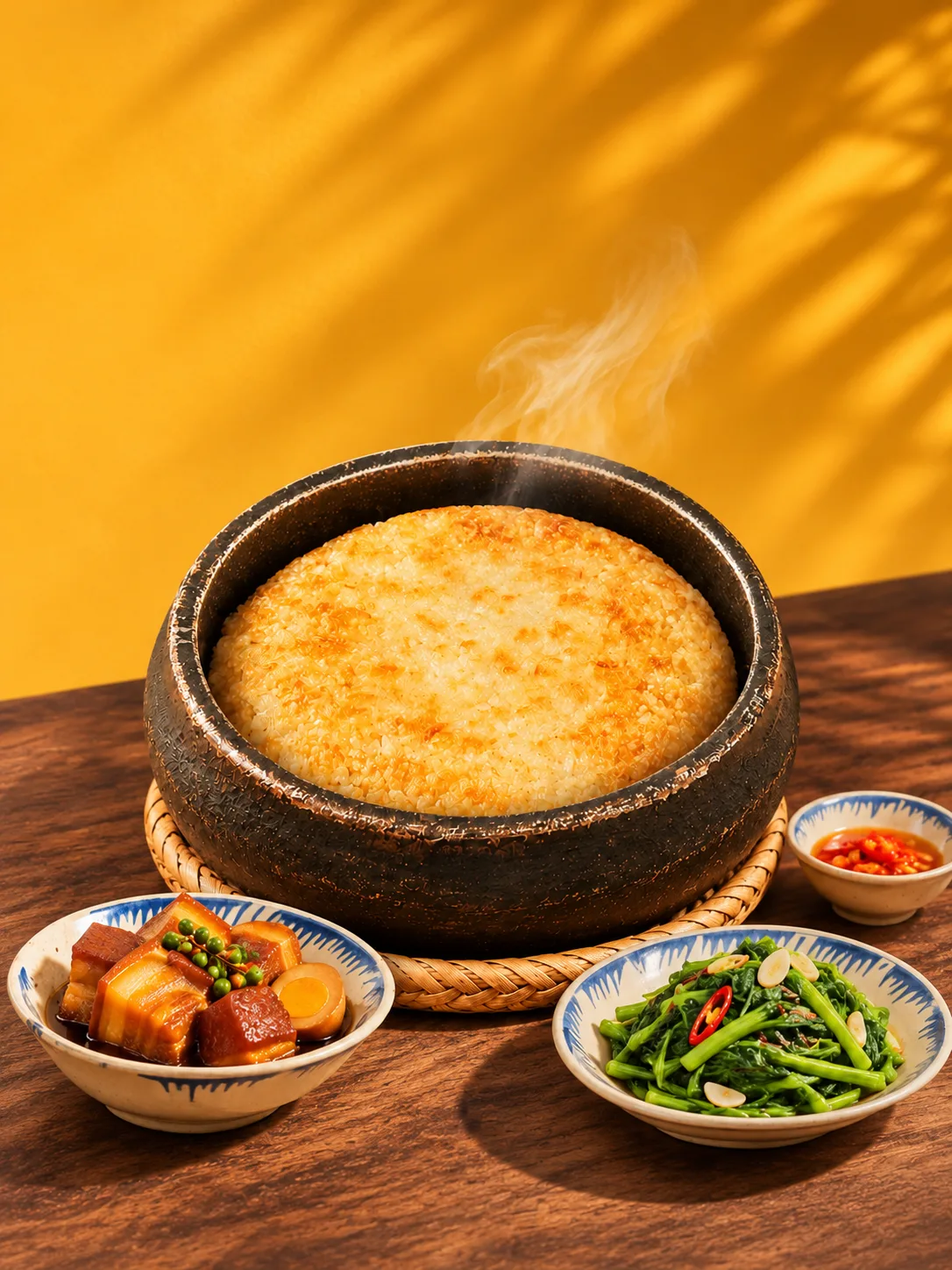
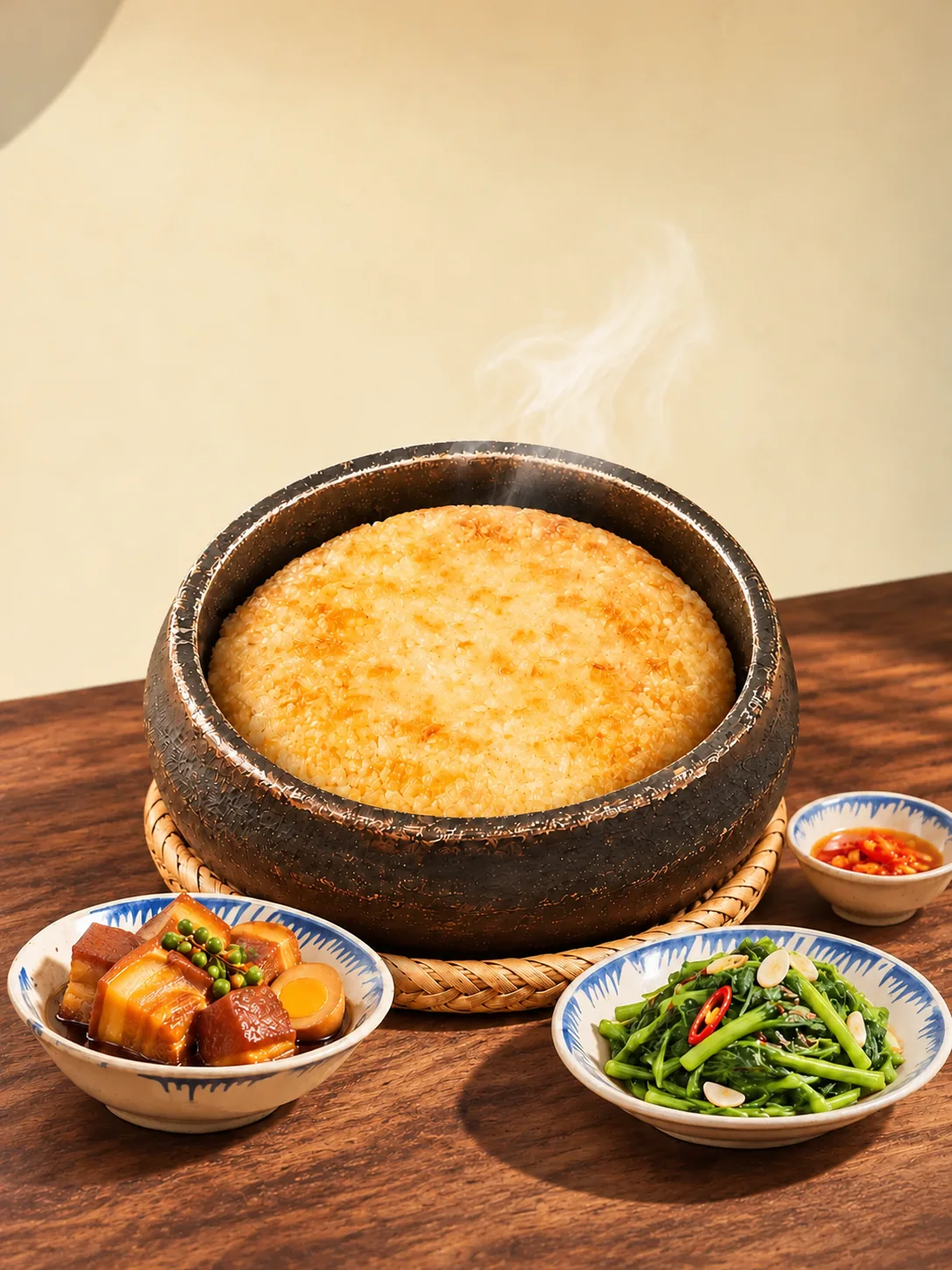
a few UI changes

diff --git a/van-hanh.html b/van-hanh.html
@@ -8,8 +8,8 @@
   <link rel="preconnect" href="https://fonts.googleapis.com">
   <link rel="preconnect" href="https://fonts.gstatic.com" crossorigin>
   <link href="https://fonts.googleapis.com/css2?family=Inter:wght@300;400;500;600;700;800;900&display=swap" rel="stylesheet">
-  <link rel="stylesheet" href="css/style.css?v=20261103v">
-  <link rel="stylesheet" href="css/franchise.css?v=20261103v">
+  <link rel="stylesheet" href="css/style.css?v=20261104n">
+  <link rel="stylesheet" href="css/franchise.css?v=20261104n">
 </head>
 <body class="fr-body">
 
@@ -42,33 +42,30 @@
       <div class="fr-wrap">
         <ol class="fr-ops">
           <li class="fr-op">
-            <div class="fr-op__img"><img src="images/cooking%20process/1793692690788_2690155425635483805_2690155425635483805_e219f417d69f35a2a7e09b6226b7ed0c.jpg" alt="Chuẩn bị nguyên liệu" loading="lazy"></div>
-            <b>01</b><h3>Chuẩn bị nguyên liệu</h3><p>Nhận, kiểm tra và bảo quản nguyên liệu theo chuẩn.</p>
+            <div class="fr-op__img"><img src="images/cooking%20process/1793692690788_2690155425635483805_2690155425635483805_e219f417d69f35a2a7e09b6226b7ed0c.jpg" alt="Quản lý nguyên liệu" loading="lazy"></div>
+            <b>01</b><h3>Quản lý nguyên liệu</h3><p>Quy trình nhập hàng, kiểm tra chất lượng, bảo quản, kiểm kê và định mức tồn kho.</p>
           </li>
           <li class="fr-op">
-            <div class="fr-op__img"><img src="images/cooking%20process/1793692690792_2690155425635483805_2690155425635483805_7589d6a22bfa5168e49d67c269f5c377.jpg" alt="Sơ chế và định lượng" loading="lazy"></div>
-            <b>02</b><h3>Sơ chế và định lượng</h3><p>Sơ chế, cân đo đúng định lượng từng phần.</p>
+            <div class="fr-op__img"><img src="images/cooking%20process/1793692690800_2690155425635483805_2690155425635483805_9ab664842a433c47abd96ab40248396a.jpg" alt="Vận hành bếp" loading="lazy"></div>
+            <b>02</b><h3>Vận hành bếp</h3><p>Quy trình chuẩn bị, phân công công việc, chế biến và kiểm soát chất lượng món ăn.</p>
           </li>
           <li class="fr-op">
-            <div class="fr-op__img"><img src="images/cooking%20process/1793692690796_2690155425635483805_2690155425635483805_e85313a9d261408a9040d6772abc1e79.jpg" alt="Chuẩn bị thố và cơm" loading="lazy"></div>
-            <b>03</b><h3>Chuẩn bị thố và cơm</h3><p>Nấu cơm, chuẩn bị thố đạt chuẩn trước khi đốt.</p>
+            <div class="fr-op__img"><img src="images/brand%20story/phucvukhachhang.webp" alt="Phục vụ khách hàng" loading="lazy"></div>
+            <b>03</b><h3>Phục vụ khách hàng</h3><p>Quy trình đón khách, nhận order, phục vụ món, thanh toán và xử lý khiếu nại.</p>
           </li>
           <li class="fr-op">
-            <div class="fr-op__img"><img src="images/cooking%20process/1793692690800_2690155425635483805_2690155425635483805_9ab664842a433c47abd96ab40248396a.jpg" alt="Đốt thố và hoàn thiện" loading="lazy"></div>
-            <b>04</b><h3>Đốt thố và hoàn thiện</h3><p>Đốt trên than hồng, hoàn thiện và trình bày món.</p>
+            <div class="fr-op__img"><img src="images/brand%20story/quanlynhansu.webp" alt="Quản lý nhân sự" loading="lazy"></div>
+            <b>04</b><h3>Quản lý nhân sự</h3><p>Cơ cấu nhân sự, phân công vị trí, lịch làm việc, đào tạo và đánh giá nhân viên.</p>
           </li>
           <li class="fr-op">
-            <div class="fr-op__img"><img src="images/cooking%20process/1793692690804_2690155425635483805_2690155425635483805_16d408f570e95a58721dc51e878c2690.jpg" alt="Kiểm tra chất lượng" loading="lazy"></div>
-            <b>05</b><h3>Kiểm tra chất lượng</h3><p>Đối chiếu tiêu chuẩn thành phẩm trước khi ra món.</p>
+            <div class="fr-op__img"><img src="images/brand%20story/quanlytaichinh.webp" alt="Quản lý tài chính" loading="lazy"></div>
+            <b>05</b><h3>Quản lý tài chính</h3><p>Theo dõi doanh thu, chi phí nguyên liệu, chi phí nhân sự và kiểm soát thất thoát.</p>
           </li>
           <li class="fr-op">
-            <div class="fr-op__img"><img src="images/cooking%20process/1793692690810_2690155425635483805_2690155425635483805_f4c63364cfbd63833b3e2ef6c01cf506.jpg" alt="Phục vụ khách hàng" loading="lazy"></div>
-            <b>06</b><h3>Phục vụ khách hàng</h3><p>Quy trình phục vụ thống nhất tại bàn.</p>
+            <div class="fr-op__img"><img src="images/brand%20story/hoi_an_anh_1_1600x1200.webp" alt="Kiểm soát chất lượng" loading="lazy"></div>
+            <b>06</b><h3>Kiểm soát chất lượng</h3><p>Checklist kiểm tra hằng ngày, tiêu chuẩn vệ sinh, chất lượng món ăn và đánh giá hoạt động.</p>
           </li>
         </ol>
-        <ul class="fr-chips">
-          <li>Quản lý nguyên liệu</li><li>Tiêu chuẩn vệ sinh</li><li>Tiêu chuẩn thành phẩm</li><li>Quy trình phục vụ</li><li>Quản lý hoạt động nhà hàng</li>
-        </ul>
         <div class="fr-center">
           <a href="dang-ky.html?model=Quy%20tr%C3%ACnh%20v%E1%BA%ADn%20h%C3%A0nh" class="fr-btn fr-btn--dark">Tìm Hiểu Chuyển Giao Quy Trình</a>
           <a href="dang-ky.html?model=%C4%90%C3%A0o%20t%E1%BA%A1o%20tr%E1%BB%B1c%20ti%E1%BA%BFp" class="fr-btn fr-btn--gold">Tìm Hiểu Đào Tạo Trực Tiếp</a>
@@ -85,9 +82,8 @@
       </div>
       <div>
         <h4>Liên hệ</h4>
-        <p>Số 8 Ngõ 158 Nguyễn Sơn, Bồ Đề, Long Biên, Hà Nội</p>
-        <p>Hotline: <a href="tel:0866888118">0866 888 118</a></p>
-        <p><a href="https://facebook.com/comdotthhoian" target="_blank" rel="noopener">Facebook</a></p>
+        <p>Hotline nhượng quyền: <a href="tel:0975388886">097 538 88 86</a></p>
+        <p><a href="https://www.facebook.com/comdotthohoian" target="_blank" rel="noopener">Fanpage nhượng quyền</a></p>
       </div>
     </div>
     <div class="fr-footer__bottom">© 2026 Cơm Đốt Thố Hội An. Bảo lưu mọi quyền.</div>
@@ -95,6 +91,6 @@
 
   <div class="fr-lightbox" id="frLightbox" hidden><button aria-label="Đóng" id="frLightboxClose">×</button><img alt=""></div>
 
-  <script src="js/franchise.js?v=20261103v"></script>
+  <script src="js/franchise.js?v=20261104n"></script>
 </body>
 </html>

diff --git a/index.html b/index.html
@@ -5,13 +5,13 @@
   <meta name="viewport" content="width=device-width, initial-scale=1.0">
   <title>Cơm Đốt Thố Hội An — Hợp Tác & Nhượng Quyền</title>
   <meta name="description" content="Cơm Đốt Thố Hội An: các hình thức hợp tác, nhượng quyền. Đăng ký tư vấn hợp tác.">
-  <link rel="preload" as="image" href="images/hero/Rustic%20Stone%20Pot%20Rice%20Feast.png" media="(min-width: 641px)">
-  <link rel="preload" as="image" href="images/hero/hero-mobile.webp" media="(max-width: 640px)">
+  <link rel="preload" as="image" href="images/hero/latest%20hero.png" media="(min-width: 641px)">
+  <link rel="preload" as="image" href="images/hero/hero-mobile.webp?v=2" media="(max-width: 640px)">
   <link rel="preconnect" href="https://fonts.googleapis.com">
   <link rel="preconnect" href="https://fonts.gstatic.com" crossorigin>
   <link href="https://fonts.googleapis.com/css2?family=Inter:wght@300;400;500;600;700;800;900&display=swap" rel="stylesheet">
-  <link rel="stylesheet" href="css/style.css?v=20261103v">
-  <link rel="stylesheet" href="css/franchise.css?v=20261103v">
+  <link rel="stylesheet" href="css/style.css?v=20261104n">
+  <link rel="stylesheet" href="css/franchise.css?v=20261104n">
 </head>
 <body class="fr-body fr-home">
 
@@ -37,8 +37,8 @@
   <main class="">
     <section class="fr-hero" id="tong-quan">
       <picture>
-        <source media="(max-width: 640px)" srcset="images/hero/hero-mobile.webp">
-        <img src="images/hero/Rustic%20Stone%20Pot%20Rice%20Feast.png" alt="Thố cơm đốt cháy giòn cùng các món ăn Hội An" fetchpriority="high">
+        <source media="(max-width: 640px)" srcset="images/hero/hero-mobile.webp?v=2">
+        <img src="images/hero/latest%20hero.png" alt="Thố cơm đốt cháy giòn cùng các món ăn Hội An" fetchpriority="high">
       </picture>
       <div class="fr-hero__content">
         <h1><span class="fr-ln">Cơm Vàng </span><br><span class="fr-ln">Giòn Rụm</span></h1>
@@ -61,25 +61,25 @@
           <a href="cong-thuc.html" class="fr-hcard__link">Xem công thức</a>
         </article>
         <article class="fr-hcard">
-          <div class="fr-hcard__img is-fit"><img class="fr-bg" src="images/brand%20story/quy%20tr%C3%ACnh%20v%E1%BA%ADn%20h%C3%A0nh.jpg" alt="" aria-hidden="true" loading="lazy"><img src="images/brand%20story/quy%20tr%C3%ACnh%20v%E1%BA%ADn%20h%C3%A0nh.jpg" alt="Quy trình vận hành" loading="lazy"></div>
+          <div class="fr-hcard__img"><img src="images/brand%20story/Modern-Yellow-Capped-Team-Meeting.webp" alt="Quy trình vận hành" loading="lazy"></div>
           <h3>Quy trình<br>vận hành</h3>
           <p class="fr-hcard__price">15 triệu</p>
           <a href="van-hanh.html" class="fr-hcard__link">Xem quy trình</a>
         </article>
         <article class="fr-hcard">
-          <div class="fr-hcard__img is-fit"><img class="fr-bg" src="images/brand%20story/%C4%91%C3%A0o%20t%E1%BA%A1o%202.jpg" alt="" aria-hidden="true" loading="lazy"><img src="images/brand%20story/%C4%91%C3%A0o%20t%E1%BA%A1o%202.jpg" alt="Đào tạo trực tiếp" loading="lazy"></div>
+          <div class="fr-hcard__img"><img src="images/brand%20story/Hoi-An-Culinary-Team-in-Action.webp" alt="Đào tạo trực tiếp" loading="lazy"></div>
           <h3>Đào tạo<br>trực tiếp</h3>
           <p class="fr-hcard__price">30 triệu</p>
           <a href="van-hanh.html" class="fr-hcard__link">Xem đào tạo</a>
         </article>
         <article class="fr-hcard">
-          <div class="fr-hcard__img is-fit"><img class="fr-bg" src="images/brand%20story/th%C6%B0%C6%A1ng%20hi%E1%BB%87u%201.jpg" alt="" aria-hidden="true" loading="lazy"><img src="images/brand%20story/th%C6%B0%C6%A1ng%20hi%E1%BB%87u%201.jpg" alt="Nhượng quyền thương hiệu" loading="lazy"></div>
+          <div class="fr-hcard__img"><img src="images/brand%20story/H%E1%BB%99i-An-Food-Garden-at-Dusk.webp" alt="Nhượng quyền thương hiệu" loading="lazy"></div>
           <h3>Nhượng quyền<br>thương hiệu</h3>
           <p class="fr-hcard__price">170 triệu / chi nhánh</p>
           <a href="nhuong-quyen.html" class="fr-hcard__link">Xem nhượng quyền</a>
         </article>
         <article class="fr-hcard">
-          <div class="fr-hcard__img is-fit"><img class="fr-bg" src="images/brand%20story/setup.jpg" alt="" aria-hidden="true" loading="lazy"><img src="images/brand%20story/setup.jpg" alt="Setup nhà hàng" loading="lazy"></div>
+          <div class="fr-hcard__img"><img src="images/brand%20story/Restaurant-Renovation-in-Organized-Chaos.webp" alt="Setup nhà hàng" loading="lazy"></div>
           <h3>Setup<br>nhà hàng</h3>
           <p class="fr-hcard__price">Báo giá riêng</p>
           <a href="dang-ky.html?model=Setup%20nh%C3%A0%20h%C3%A0ng" class="fr-hcard__link">Yêu cầu báo giá</a>
@@ -98,9 +98,8 @@
       </div>
       <div>
         <h4>Liên hệ</h4>
-        <p>Số 8 Ngõ 158 Nguyễn Sơn, Bồ Đề, Long Biên, Hà Nội</p>
-        <p>Hotline: <a href="tel:0866888118">0866 888 118</a></p>
-        <p><a href="https://facebook.com/comdotthhoian" target="_blank" rel="noopener">Facebook</a></p>
+        <p>Hotline nhượng quyền: <a href="tel:0975388886">097 538 88 86</a></p>
+        <p><a href="https://www.facebook.com/comdotthohoian" target="_blank" rel="noopener">Fanpage nhượng quyền</a></p>
       </div>
     </div>
     <div class="fr-footer__bottom">© 2026 Cơm Đốt Thố Hội An. Bảo lưu mọi quyền.</div>
@@ -108,6 +107,6 @@
 
   <div class="fr-lightbox" id="frLightbox" hidden><button aria-label="Đóng" id="frLightboxClose">×</button><img alt=""></div>
 
-  <script src="js/franchise.js?v=20261103v"></script>
+  <script src="js/franchise.js?v=20261104n"></script>
 </body>
 </html>

diff --git a/nhuong-quyen.html b/nhuong-quyen.html
@@ -8,8 +8,8 @@
   <link rel="preconnect" href="https://fonts.googleapis.com">
   <link rel="preconnect" href="https://fonts.gstatic.com" crossorigin>
   <link href="https://fonts.googleapis.com/css2?family=Inter:wght@300;400;500;600;700;800;900&display=swap" rel="stylesheet">
-  <link rel="stylesheet" href="css/style.css?v=20261103v">
-  <link rel="stylesheet" href="css/franchise.css?v=20261103v">
+  <link rel="stylesheet" href="css/style.css?v=20261104n">
+  <link rel="stylesheet" href="css/franchise.css?v=20261104n">
 </head>
 <body class="fr-body">
 
@@ -38,22 +38,22 @@
       <h1><span class="fr-ln">Thương Hiệu Khác Biệt,</span><br><span class="fr-ln">Quy Trình Hợp Tác Rõ Ràng</span></h1>
       
     </div>
-    <section class="fr-sec">
+    <section class="fr-sec fr-sec--latte" id="quyen-loi">
       <div class="fr-wrap">
-        <div class="fr-split">
-          <div class="fr-split__img"><img src="images/hero/Rustic%20Stone%20Pot%20Rice%20Feast.png" alt="Thố cơm cháy vàng giòn" loading="lazy" style="object-position:62% 45%"></div>
-          <div>
-            <span class="fr-eyebrow">Lợi thế thương hiệu</span>
-            <h2 class="fr-title">Giá Trị Làm Nên Một<br>Thương Hiệu Khác Biệt</h2>
-            <ul class="fr-usp">
-              <li><b>Công thức chế biến đặc trưng</b><span>Hương vị miền Trung, khó sao chép.</span></li>
-              <li><b>Đốt thố trên than hồng</b><span>Lớp cơm cháy vàng giòn đặc trưng.</span></li>
-              <li><b>Hương vị &amp; nguyên liệu</b><span>Gia vị riêng, nguyên liệu chọn lọc.</span></li>
-              <li><b>Quy trình chuẩn hóa</b><span>Có thể chuyển giao và nhân rộng.</span></li>
-            </ul>
-            <p class="fr-fine" style="text-align:left">Nhượng quyền thương hiệu: <b>170 triệu / chi nhánh</b> (tham khảo, chưa gồm chi phí phát sinh).</p>
-          </div>
+        <div class="fr-head fr-head--dk">
+          <span class="fr-eyebrow">Quyền lợi nhượng quyền</span>
+          <h2 class="fr-title">Với 170 Triệu / Chi Nhánh,<br>Bạn Nhận Được Gì?</h2>
+          <p>6 hạng mục được bàn giao và đồng hành, từ ngày ký hợp đồng đến sau khai trương.</p>
         </div>
+        <ol class="fr-gets">
+          <li class="fr-get"><span class="fr-get__n">01</span><h3>Quyền sử dụng thương hiệu</h3><p>Được sử dụng tên, logo, nhận diện và mô hình kinh doanh Cơm Đốt Thố Hội An.</p></li>
+          <li class="fr-get"><span class="fr-get__n">02</span><h3>Công thức &amp; menu</h3><p>Công thức chuẩn, định lượng nguyên liệu, danh mục món ăn và giá bán đề xuất.</p></li>
+          <li class="fr-get"><span class="fr-get__n">03</span><h3>Quy trình vận hành</h3><p>Hướng dẫn quản lý bếp, nhập hàng, nhân sự, phục vụ và kiểm soát chất lượng.</p></li>
+          <li class="fr-get"><span class="fr-get__n">04</span><h3>Đào tạo nhân sự</h3><p>Đào tạo đầu bếp, quản lý và nhân viên trước khi khai trương.</p></li>
+          <li class="fr-get"><span class="fr-get__n">05</span><h3>Hỗ trợ khai trương</h3><p>Tư vấn mặt bằng, setup, bố trí thiết bị và hướng dẫn vận hành ban đầu.</p></li>
+          <li class="fr-get"><span class="fr-get__n">06</span><h3>Đồng hành sau khai trương</h3><p>Hỗ trợ chuyên môn, cập nhật menu, kiểm tra chất lượng và tư vấn kinh doanh.</p></li>
+        </ol>
+        <p class="fr-fine">Phạm vi bàn giao chi tiết, tiến độ và các khoản phát sinh được thống nhất bằng văn bản khi tư vấn và ký hợp đồng.</p>
       </div>
     </section>
     <section class="fr-sec fr-sec--dark">
@@ -101,9 +101,8 @@
       </div>
       <div>
         <h4>Liên hệ</h4>
-        <p>Số 8 Ngõ 158 Nguyễn Sơn, Bồ Đề, Long Biên, Hà Nội</p>
-        <p>Hotline: <a href="tel:0866888118">0866 888 118</a></p>
-        <p><a href="https://facebook.com/comdotthhoian" target="_blank" rel="noopener">Facebook</a></p>
+        <p>Hotline nhượng quyền: <a href="tel:0975388886">097 538 88 86</a></p>
+        <p><a href="https://www.facebook.com/comdotthohoian" target="_blank" rel="noopener">Fanpage nhượng quyền</a></p>
       </div>
     </div>
     <div class="fr-footer__bottom">© 2026 Cơm Đốt Thố Hội An. Bảo lưu mọi quyền.</div>
@@ -111,6 +110,6 @@
 
   <div class="fr-lightbox" id="frLightbox" hidden><button aria-label="Đóng" id="frLightboxClose">×</button><img alt=""></div>
 
-  <script src="js/franchise.js?v=20261103v"></script>
+  <script src="js/franchise.js?v=20261104n"></script>
 </body>
 </html>

diff --git a/css/franchise.css b/css/franchise.css
@@ -33,7 +33,7 @@ main section[id] { scroll-margin-top: 60px; }
 
 /* 01 Hero — phủ kín màn hình đầu tiên, nằm dưới navbar trong suốt.
    Ảnh hiện đủ chiều ngang, bám đáy; phía trên là phần tường vàng nối tiếp. */
-.fr-hero { position: relative; height: 100vh; height: 100svh; min-height: 540px; overflow: hidden; background: linear-gradient(90deg, #efb02a 0%, #f2b632 55%, #f6c24a 100%); }
+.fr-hero { position: relative; height: 100vh; height: 100svh; min-height: 540px; overflow: hidden; background: linear-gradient(90deg, #c39e6c 0%, #d3ac75 12.5%, #edc586 25%, #f8d698 37.5%, #e8c286 50%, #ddb983 62.5%, #d4ab73 75%, #d1a66d 87.5%, #d1a66d 100%); }
 /* --img-top: ảnh bám đáy (màn siêu rộng thì mép trên ảnh bị cắt bớt phần tường) */
 .fr-hero { --img-top: calc(100% - 42.87vw); }
 .fr-hero img {
@@ -213,7 +213,7 @@ main section[id] { scroll-margin-top: 60px; }
 @media (prefers-reduced-motion: reduce) { html { scroll-behavior: auto; } * { transition: none !important; animation: none !important; } }
 
 /* Đầu trang của các trang con */
-.fr-pagehead { background: var(--ink); color: var(--cream); text-align: center; padding: calc(4.5rem + 60px) 1.5rem 3.5rem; }
+.fr-pagehead { background: var(--ink); color: var(--cream); text-align: center; padding: calc(2.25rem + 60px) 1.5rem 2.25rem; }
 .fr-pagehead .fr-eyebrow { color: var(--nav-gold); }
 .fr-pagehead h1 { font-family: var(--serif); font-weight: 600; font-size: clamp(2rem, 4vw, 3.3rem); line-height: 1.12; }
 .fr-pagehead p { margin-top: 0.9rem; color: rgba(250, 246, 240, 0.72); }
@@ -284,7 +284,7 @@ main section[id] { scroll-margin-top: 60px; }
 /* Trang Bộ công thức: thu khoảng trống giữa tiêu đề và ba nhóm món */
 .fr-pagehead + .fr-sec--flush { padding-top: 0; }
 .fr-pagehead + .fr-sec--flush .fr-groups { margin-top: 0; }
-.fr-pagehead:has(+ .fr-sec--flush) { padding: calc(2.75rem + 60px) 1.5rem 2.75rem; } /* khoảng trên (dưới navbar) = khoảng dưới */
+.fr-pagehead:has(+ .fr-sec--flush) { padding: calc(2.25rem + 60px) 1.5rem 2.25rem; } /* khoảng trên (dưới navbar) = khoảng dưới */
 .fr-pagehead + .fr-sec--flush .fr-mh { margin-top: 2rem; }
 
 /* Thẻ hợp tác: hiện nguyên cả ảnh ngang, phần thừa lấp bằng bản mờ của ảnh */
@@ -337,3 +337,21 @@ main section[id] { scroll-margin-top: 60px; }
             mask-image: linear-gradient(to bottom, transparent 0, #000 14%);
   }
 }
+
+/* Mobile: nền khớp màu phần tường của ảnh hero mobile */
+@media (max-width: 640px) {
+  .fr-hero { background: linear-gradient(90deg, #f3e2bf 0%, #f2deb7 30%, #eed7ad 50%, #e6d0a4 75%, #d5bf96 100%); }
+}
+
+/* Quyền lợi nhượng quyền: 6 hạng mục nhận được */
+.fr-head--dk p { color: var(--text-muted); }
+.fr-gets { list-style: none; display: grid; grid-template-columns: repeat(3, 1fr); gap: 1.25rem; }
+.fr-get { background: #fff; border: 1px solid var(--border-warm); border-radius: 14px; padding: 1.6rem 1.5rem 1.75rem; }
+.fr-get__n { display: block; font-family: var(--serif); font-size: 2rem; font-weight: 600; line-height: 1; color: var(--bronze); margin-bottom: 1rem; }
+.fr-get h3 { font-family: var(--serif); font-size: 1.25rem; font-weight: 700; line-height: 1.2; margin-bottom: 0.5rem; }
+.fr-get p { color: var(--text-muted); font-size: var(--text-sm); line-height: 1.65; }
+@media (max-width: 1100px) { .fr-gets { grid-template-columns: repeat(2, 1fr); } }
+@media (max-width: 640px) { .fr-gets { grid-template-columns: 1fr; } }
+
+/* Chặn tràn ngang (ảnh menu trượt vào từ hai bên) để header fixed không bị lệch khi cuộn trên điện thoại */
+html, .fr-sub { overflow-x: clip; }

diff --git a/dang-ky.html b/dang-ky.html
@@ -8,8 +8,8 @@
   <link rel="preconnect" href="https://fonts.googleapis.com">
   <link rel="preconnect" href="https://fonts.gstatic.com" crossorigin>
   <link href="https://fonts.googleapis.com/css2?family=Inter:wght@300;400;500;600;700;800;900&display=swap" rel="stylesheet">
-  <link rel="stylesheet" href="css/style.css?v=20261103v">
-  <link rel="stylesheet" href="css/franchise.css?v=20261103v">
+  <link rel="stylesheet" href="css/style.css?v=20261104n">
+  <link rel="stylesheet" href="css/franchise.css?v=20261104n">
 </head>
 <body class="fr-body">
 
@@ -106,9 +106,8 @@
       </div>
       <div>
         <h4>Liên hệ</h4>
-        <p>Số 8 Ngõ 158 Nguyễn Sơn, Bồ Đề, Long Biên, Hà Nội</p>
-        <p>Hotline: <a href="tel:0866888118">0866 888 118</a></p>
-        <p><a href="https://facebook.com/comdotthhoian" target="_blank" rel="noopener">Facebook</a></p>
+        <p>Hotline nhượng quyền: <a href="tel:0975388886">097 538 88 86</a></p>
+        <p><a href="https://www.facebook.com/comdotthohoian" target="_blank" rel="noopener">Fanpage nhượng quyền</a></p>
       </div>
     </div>
     <div class="fr-footer__bottom">© 2026 Cơm Đốt Thố Hội An. Bảo lưu mọi quyền.</div>
@@ -116,6 +115,6 @@
 
   <div class="fr-lightbox" id="frLightbox" hidden><button aria-label="Đóng" id="frLightboxClose">×</button><img alt=""></div>
 
-  <script src="js/franchise.js?v=20261103v"></script>
+  <script src="js/franchise.js?v=20261104n"></script>
 </body>
 </html>

diff --git a/cong-thuc.html b/cong-thuc.html
@@ -8,8 +8,8 @@
   <link rel="preconnect" href="https://fonts.googleapis.com">
   <link rel="preconnect" href="https://fonts.gstatic.com" crossorigin>
   <link href="https://fonts.googleapis.com/css2?family=Inter:wght@300;400;500;600;700;800;900&display=swap" rel="stylesheet">
-  <link rel="stylesheet" href="css/style.css?v=20261103v">
-  <link rel="stylesheet" href="css/franchise.css?v=20261103v">
+  <link rel="stylesheet" href="css/style.css?v=20261104n">
+  <link rel="stylesheet" href="css/franchise.css?v=20261104n">
 </head>
 <body class="fr-body">
 
@@ -84,9 +84,8 @@
       </div>
       <div>
         <h4>Liên hệ</h4>
-        <p>Số 8 Ngõ 158 Nguyễn Sơn, Bồ Đề, Long Biên, Hà Nội</p>
-        <p>Hotline: <a href="tel:0866888118">0866 888 118</a></p>
-        <p><a href="https://facebook.com/comdotthhoian" target="_blank" rel="noopener">Facebook</a></p>
+        <p>Hotline nhượng quyền: <a href="tel:0975388886">097 538 88 86</a></p>
+        <p><a href="https://www.facebook.com/comdotthohoian" target="_blank" rel="noopener">Fanpage nhượng quyền</a></p>
       </div>
     </div>
     <div class="fr-footer__bottom">© 2026 Cơm Đốt Thố Hội An. Bảo lưu mọi quyền.</div>
@@ -94,6 +93,6 @@
 
   <div class="fr-lightbox" id="frLightbox" hidden><button aria-label="Đóng" id="frLightboxClose">×</button><img alt=""></div>
 
-  <script src="js/franchise.js?v=20261103v"></script>
+  <script src="js/franchise.js?v=20261104n"></script>
 </body>
 </html>

diff --git a/he-thong.html b/he-thong.html
@@ -8,8 +8,8 @@
   <link rel="preconnect" href="https://fonts.googleapis.com">
   <link rel="preconnect" href="https://fonts.gstatic.com" crossorigin>
   <link href="https://fonts.googleapis.com/css2?family=Inter:wght@300;400;500;600;700;800;900&display=swap" rel="stylesheet">
-  <link rel="stylesheet" href="css/style.css?v=20261103v">
-  <link rel="stylesheet" href="css/franchise.css?v=20261103v">
+  <link rel="stylesheet" href="css/style.css?v=20261104n">
+  <link rel="stylesheet" href="css/franchise.css?v=20261104n">
 </head>
 <body class="fr-body">
 
@@ -71,9 +71,8 @@
       </div>
       <div>
         <h4>Liên hệ</h4>
-        <p>Số 8 Ngõ 158 Nguyễn Sơn, Bồ Đề, Long Biên, Hà Nội</p>
-        <p>Hotline: <a href="tel:0866888118">0866 888 118</a></p>
-        <p><a href="https://facebook.com/comdotthhoian" target="_blank" rel="noopener">Facebook</a></p>
+        <p>Hotline nhượng quyền: <a href="tel:0975388886">097 538 88 86</a></p>
+        <p><a href="https://www.facebook.com/comdotthohoian" target="_blank" rel="noopener">Fanpage nhượng quyền</a></p>
       </div>
     </div>
     <div class="fr-footer__bottom">© 2026 Cơm Đốt Thố Hội An. Bảo lưu mọi quyền.</div>
@@ -81,6 +80,6 @@
 
   <div class="fr-lightbox" id="frLightbox" hidden><button aria-label="Đóng" id="frLightboxClose">×</button><img alt=""></div>
 
-  <script src="js/franchise.js?v=20261103v"></script>
+  <script src="js/franchise.js?v=20261104n"></script>
 </body>
 </html>

diff --git a/css/style.css b/css/style.css
@@ -99,10 +99,9 @@ a { color: inherit; text-decoration: none; }
   position: fixed;
   top: 0; left: 0; right: 0;
   z-index: 1000;
-  /* Nền trong suốt dạng kính: vẫn thấy ảnh phía sau, chữ vẫn đọc được */
-  background: rgba(12, 12, 12, 0.32);
-  backdrop-filter: saturate(160%) blur(14px);
-  -webkit-backdrop-filter: saturate(160%) blur(14px);
+  background: rgba(12, 12, 12, 0.8);
+  backdrop-filter: saturate(120%) blur(10px);
+  -webkit-backdrop-filter: saturate(120%) blur(10px);
   border-bottom: 1px solid rgba(255, 255, 255, 0.08);
 }
 

diff --git a/js/franchise.js b/js/franchise.js
@@ -126,7 +126,7 @@ document.addEventListener('DOMContentLoaded', () => {
       setMsg('Đã gửi thành công. Chúng tôi sẽ liên hệ bạn trong 24 giờ làm việc.', 'ok');
       form.reset();
     } catch (err) {
-      setMsg('Gửi chưa được, vui lòng thử lại hoặc gọi 0866 888 118.', 'err');
+      setMsg('Gửi chưa được, vui lòng thử lại hoặc gọi 097 538 88 86.', 'err');
     } finally {
       btn.disabled = false;
     }
